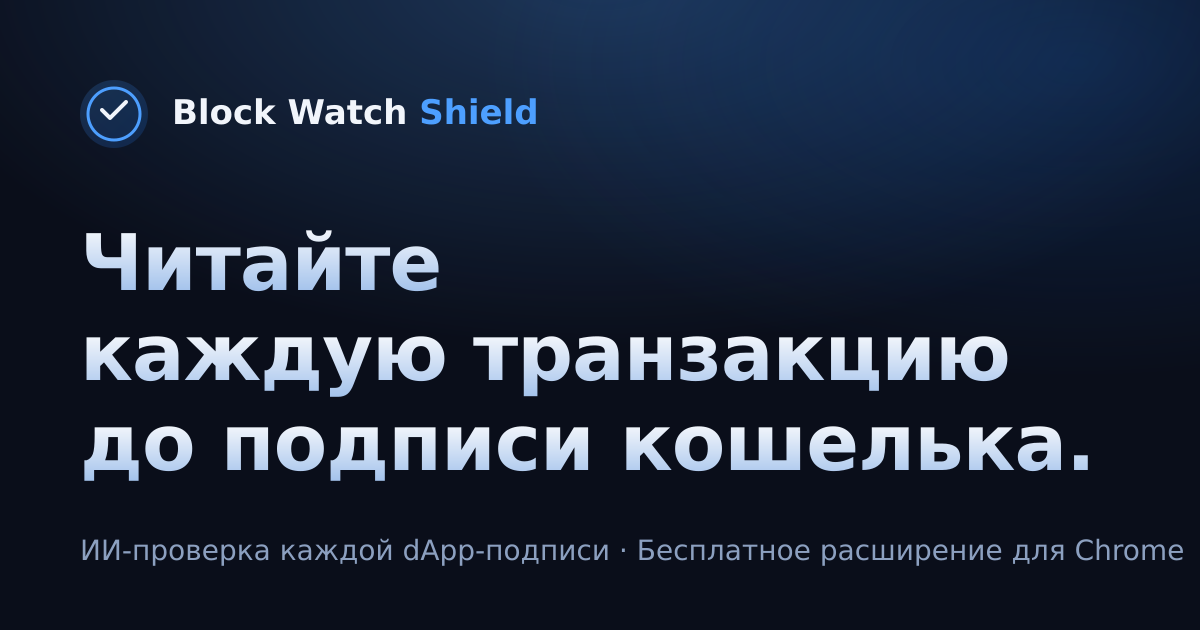
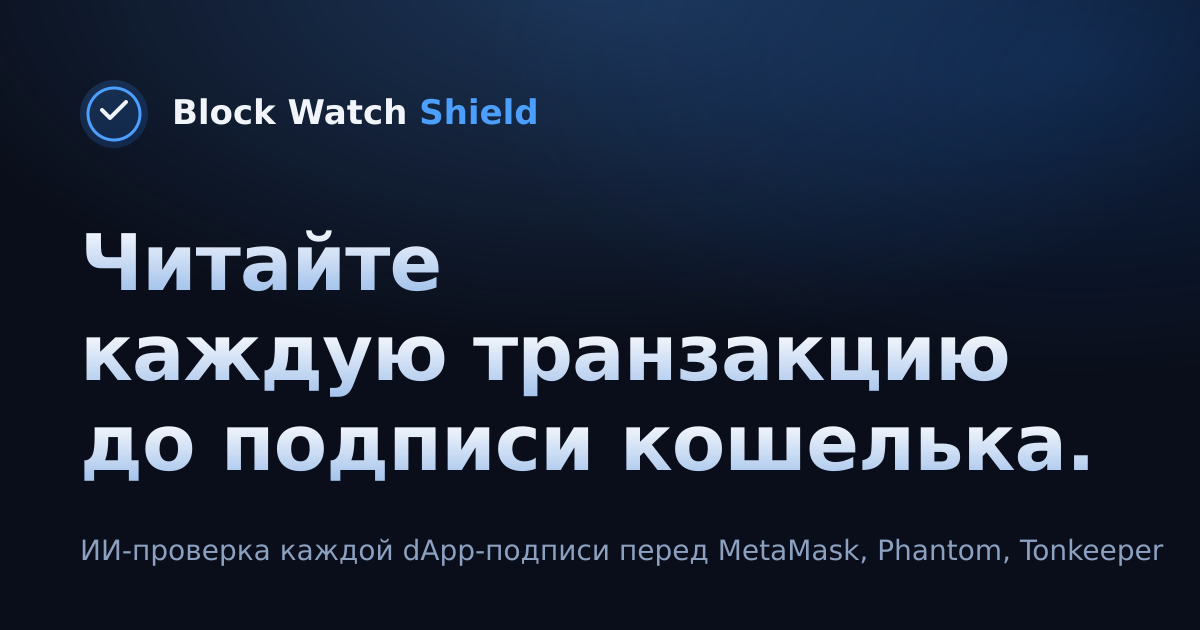
remove 'free' framing from hero, OG description, OG image

Changed region(s): [[0.5242, 0.8444, 0.9867, 0.9048]]

diff --git a/index.html b/index.html
@@ -11,14 +11,14 @@
 <meta charset="UTF-8" />
 <meta name="viewport" content="width=device-width, initial-scale=1.0" />
 <title data-i18n="ptitle">Block Watch Shield — Читайте каждую транзакцию до подписи кошелька</title>
-<meta name="description" content="Block Watch Shield проверяет каждую подпись в dApp с помощью ИИ, прежде чем MetaMask, Phantom или Tonkeeper её подпишут. Бесплатное расширение для Chrome." />
+<meta name="description" content="Block Watch Shield проверяет каждую подпись в dApp с помощью ИИ, прежде чем MetaMask, Phantom или Tonkeeper её подпишут." />
 <link rel="canonical" href="https://blockwatch.tech/" />
 
 <!-- Open Graph / Telegram / Facebook share preview -->
 <meta property="og:type" content="website" />
 <meta property="og:url" content="https://blockwatch.tech/" />
 <meta property="og:title" content="Block Watch Shield — Читайте каждую транзакцию до подписи кошелька" />
-<meta property="og:description" content="ИИ проверяет каждую подпись в dApp до того, как MetaMask, Phantom или Tonkeeper её подпишут. Бесплатное расширение для Chrome." />
+<meta property="og:description" content="ИИ проверяет каждую подпись в dApp до того, как MetaMask, Phantom или Tonkeeper её подпишут. Расширение для Chrome." />
 <meta property="og:image" content="https://blockwatch.tech/og-image.png" />
 <meta property="og:image:width" content="1200" />
 <meta property="og:image:height" content="630" />
@@ -29,7 +29,7 @@
 <!-- Twitter card -->
 <meta name="twitter:card" content="summary_large_image" />
 <meta name="twitter:title" content="Block Watch Shield" />
-<meta name="twitter:description" content="ИИ читает каждую транзакцию до того, как кошелёк её подпишет. Бесплатное расширение для Chrome." />
+<meta name="twitter:description" content="ИИ читает каждую транзакцию до того, как кошелёк её подпишет." />
 <meta name="twitter:image" content="https://blockwatch.tech/og-image.png" />
 
 <!-- Favicons -->
@@ -647,7 +647,7 @@ footer {
     <div class="wrap">
       <img class="hero-emblem" src="./nav-shield.png" alt="Эмблема Block Watch Shield" />
       <h1 class="heading-gradient" data-i18n="hero_h1" style="width: 800px; margin: 2px 132px 22px">Читайте каждую транзакцию до того, как кошелёк её подпишет.</h1>
-      <p class="lead" data-i18n="hero_lead">Block Watch Shield проверяет каждую подпись в dApp с помощью ИИ, прежде чем MetaMask, Phantom или Tonkeeper её подпишут. Бесплатно.</p>
+      <p class="lead" data-i18n="hero_lead">Block Watch Shield проверяет каждую подпись в dApp с помощью ИИ, прежде чем MetaMask, Phantom или Tonkeeper её подпишут.</p>
       <a class="cta-install" href="https://chrome.google.com/webstore/..." target="_blank" rel="noopener"><img data-i18n-img="install" src="./img/el-install-ru.png" alt="Установить для Chrome" /></a>
       <p class="hero-micro" data-i18n="hero_micro">Работает с MetaMask, Rabby, Coinbase Wallet, Phantom, Tonkeeper. Приватные ключи не покидают браузер.</p>
     </div>
@@ -850,7 +850,7 @@ footer {
   var I18N = {
     ptitle:        { ru: "Block Watch Shield — Читайте каждую транзакцию до подписи кошелька", en: "Block Watch Shield — Read every transaction before your wallet signs" },
     hero_h1:       { ru: "Читайте каждую транзакцию до того, как кошелёк её подпишет.", en: "Read every transaction before your wallet signs." },
-    hero_lead:     { ru: "Block Watch Shield проверяет каждую подпись в dApp с помощью ИИ, прежде чем MetaMask, Phantom или Tonkeeper её подпишут. Бесплатно.", en: "Block Watch Shield reviews every dApp signature with AI before MetaMask, Phantom, or Tonkeeper can sign it. Free." },
+    hero_lead:     { ru: "Block Watch Shield проверяет каждую подпись в dApp с помощью ИИ, прежде чем MetaMask, Phantom или Tonkeeper её подпишут.", en: "Block Watch Shield reviews every dApp signature with AI before MetaMask, Phantom, or Tonkeeper can sign it." },
     cta_install:   { ru: "Установить для Chrome", en: "Install for Chrome" },
     hero_micro:    { ru: "Работает с MetaMask, Rabby, Coinbase Wallet, Phantom, Tonkeeper. Приватные ключи не покидают браузер.", en: "Works with MetaMask, Rabby, Coinbase Wallet, Phantom, Tonkeeper. No private keys leave your browser." },
 